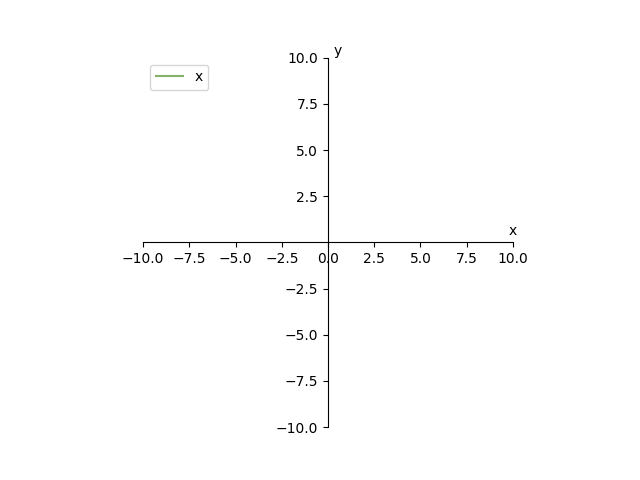
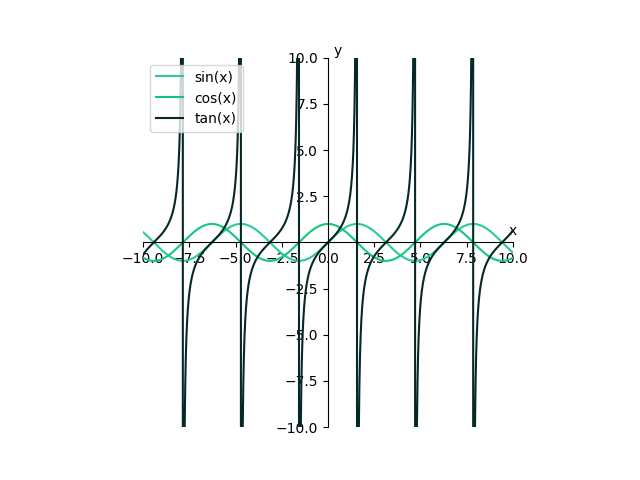
Added builtins functionality

Changed region(s): [[0.2188, 0.125, 0.8125, 0.9062]]

diff --git a/grapher.py b/grapher.py
@@ -1,5 +1,6 @@
 import matplotlib.pyplot as plt
 import numpy as np
+import builtins
 import math
 from random import randint
 
@@ -11,8 +12,13 @@ def graph(points, bounds, domain, imports, func):
     if len(imports) > 0:
         for name in imports:
             elems = name.split(".")
-            element = getattr(globals()[elems[0]], elems[1])
-            globals()[elems[1]] = np.vectorize(element) if callable(element) else element
+            print(elems)
+            if len(elems) == 1:
+                if len(elems[0]) > 0:
+                    globals()["b_"+elems[0]] = np.vectorize(getattr(builtins, elems[0]))
+            else:
+                element = getattr(globals()[elems[0]], elems[1])
+                globals()[elems[1]] = np.vectorize(element) if callable(element) else element
     for i in range(len(func_list)):
         func_list[i] = func_list[i].strip()
     y = []

diff --git a/main.py b/main.py
@@ -3,23 +3,28 @@ import PySimpleGUI as sg
 import grapher
 import layouts
 
-window = sg.Window("Grapher", layouts.main_layout())
+window = sg.Window("Grapher", layouts.main_layout(), finalize=True)
+
+window['func_input'].bind("<Return>", "_Enter")
 
 QUESTIONS = 5
 
 increased = False
 name = ""
+
 while True:
     event, values = window.read()
+    print(event)
+    print(values)
     if event == sg.WIN_CLOSED or event == "Exit":
         print("EXIT")
         break
-    elif event == 'Calculate':
+    elif event == 'Calculate' or event == "func_input_Enter":
         points = int(values[0])
         bounds = float(values[1])
         domain = values[2]
         imports = values[3].split(",") if values[3] != '' else []
-        func = values[4]
+        func = values["func_input"]
 
         for i in range(len(imports)):
             imports[i] = imports[i].strip()

diff --git a/layouts.py b/layouts.py
@@ -5,7 +5,7 @@ import grapher
 def main_layout():
     return [[sg.Text("Points: "), sg.InputText(size=10), sg.Text("Value Bounds: "), sg.InputText(size=10), sg.Text("Domain: "), sg.InputText(size=10)],
             [sg.Text("Imports: "), sg.InputText()],
-            [sg.Text("f(x): "), sg.InputText(), sg.Button("Calculate")]]
+            [sg.Text("f(x): "), sg.InputText(key="func_input"), sg.Button("Calculate")]]
 
 
 def extended_layout(points, bounds, domain, imports, func):
